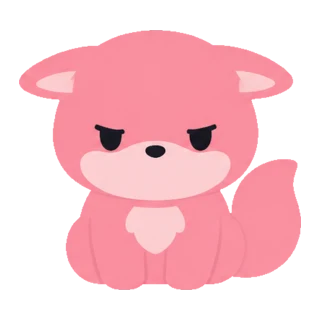
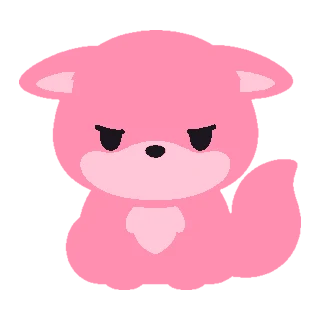
fix(brand): one pink everywhere, and Kanna on the tab
Three things the art was getting wrong, all found by looking at the exports
rather than the code.

**The pets were not the same colour.** The masters drifted off-brand and off
each other — fur measures `#f990a0` on `wait`, `#f695a1` on `go`, `#fa94a2` on
`watch`, against a brand accent of `#ff8fb0`. Next to `idle`, which now renders
from the vector and is exactly on-brand, that reads as two foxes in two
different pinks. Every still is snapped to the brand palette on the way out.

Alpha has to be carried around that remap by hand, and this took three attempts
to get right. A two-colour palette ate her eyes — they are the plate colour, so
the same trap `-transparent` sets on the masters, one step later. Then every
single-invocation form (`-alpha off … -alpha on`, `-channel RGB`, an `mpr:`
round trip) turned each pet into a black silhouette, because transparent pixels
still hold plate-coloured RGB and the colour reduction counts them. Extracting
the mask, remapping opaque, and copying the mask back is the form that survives;
the failures are written down at the function so the next person skips them.

The silhouettes come out byte-identical and eye pixels move by under half a
percent, so this is a hue change and nothing else. Fur-to-cream separation drops
from ΔE 29.7 to 26.5 — flatter edges where the masters had shading the brief
forbade, still an order of magnitude above the visible threshold, and the cream
[…]

diff --git a/.reference/design/brand/export-fox-assets.ts b/.reference/design/brand/export-fox-assets.ts
@@ -67,6 +67,20 @@ const CLI_PETS = path.join(ROOT, "apps/cli/src/app-shell/brand/pets");
 
 /** The plate colour the masters were drawn on, and the colour of the eyes. */
 const PLATE = "#1c1620";
+/**
+ * The brand palette every still is snapped to.
+ *
+ * The masters drifted. Their fur measures around `#f990a0`, a salmon, and it is
+ * not even consistent between them — `go` is `#f695a1`, `watch` is `#fa94a2`.
+ * Beside a still exported from the vector, which is exactly `#ff8fb0`, the
+ * difference is visible as two foxes in slightly different pinks.
+ *
+ * `PLATE` has to be in this list even though the plate itself is transparent by
+ * the time the remap runs: it is also the colour of her eyes and nose, and a
+ * palette without it snaps them to the nearest pink and she comes out blind.
+ * That is the same trap as `-transparent` on the masters, one step later.
+ */
+const BRAND_PALETTE = ["#ff8fb0", "#ffc6d8", PLATE] as const;
 /** Corner-to-corner spread across the six masters is ~10 levels; 22% clears it. */
 const PLATE_FUZZ = "22%";
 /** Lossy WebP quality. Flat art holds up well below this; edges do not. */
@@ -294,7 +308,56 @@ async function exportStill(
     ...encode,
   ]);
 
+  await snapToBrandPalette(dest);
   return Bun.file(dest).size;
+}
+
+// One 3px swatch the remap reads. Written once rather than per still.
+const palettePath = path.join(tmpdir(), "kanna-brand-palette.png");
+await magick(["-size", "1x1", ...BRAND_PALETTE.map((hex) => `xc:${hex}`), "+append", palettePath]);
+
+/**
+ * Snap a finished still to the brand palette, in place.
+ *
+ * The masters drifted off-brand and off each other — fur measures `#f990a0` on
+ * `wait`, `#f695a1` on `go`, `#fa94a2` on `watch` — while a still exported from
+ * the vector is exactly `#ff8fb0`. Side by side in one shell that reads as two
+ * foxes in two different pinks.
+ *
+ * Alpha has to be carried around the remap by hand. `-remap` reduces colour,
+ * and every single-invocation form of this — `-alpha off … -alpha on`,
+ * `-channel RGB`, an `mpr:` round trip — either dropped the cut or snapped the
+ * whole image to the darkest palette entry, because transparent pixels still
+ * hold plate-coloured RGB and the reduction counts them. Extracting the mask,
+ * remapping opaque, and copying the mask back is the form that survives.
+ *
+ * `PLATE` must be in the palette even though the plate is long gone by now: it
+ * is also the colour of her eyes and nose, and a palette without it snaps them
+ * to the nearest pink and she comes out blind. Same trap as `-transparent` on
+ * the masters, two steps later.
+ */
+async function snapToBrandPalette(file: string): Promise<void> {
+  const mask = path.join(tmpdir(), `kanna-mask-${path.basename(file)}.png`);
+  const rgb = path.join(tmpdir(), `kanna-rgb-${path.basename(file)}.png`);
+  const isWebp = file.endsWith(".webp");
+
+  await magick([file, "-alpha", "extract", mask]);
+  await magick([file, "-alpha", "off", "+dither", "-remap", palettePath, rgb]);
+  await magick([
+    rgb,
+    mask,
+    "-alpha",
+    "off",
+    "-compose",
+    "CopyOpacity",
+    "-composite",
+    ...(isWebp
+      ? ["-quality", WEBP_QUALITY, "-define", "webp:alpha-quality=100", "-strip", file]
+      : ["-strip", `PNG32:${file}`]),
+  ]);
+
+  rmSync(mask, { force: true });
+  rmSync(rgb, { force: true });
 }
 
 mkdirSync(DOCS_STILLS, { recursive: true });

diff --git a/apps/docs/app/icon.tsx b/apps/docs/app/icon.tsx
@@ -1,11 +1,34 @@
 import { KunaiMark } from "@/lib/brand/kunai-mark";
-import { kunaiBrand } from "@/lib/brand/tokens";
+import generatedMascot from "@/lib/generated-mascot.json";
 import { ImageResponse } from "next/og";
 
 export const size = { width: 32, height: 32 };
 export const contentType = "image/png";
 
+/**
+ * The tab icon is Kanna, not the blade.
+ *
+ * A favicon is the most-repeated brand impression there is — every tab, every
+ * bookmark, every history row — and the blade mark is a geometric fox that any
+ * project could own. She is the part nobody else has. Rendered from the same
+ * bake the OG cards use, so there is one asset behind every small surface
+ * rather than a fourth source to keep in step.
+ *
+ * She survives the size: at 32 the ears, the muzzle and the squint all still
+ * read. Below that a browser downscales this, which beats a 16px render of art
+ * drawn at 928.
+ *
+ * Full-bleed and transparent, unlike the OG cards and the home-screen tile. At
+ * 32px a plate and a border are the difference between an ear reaching the edge
+ * and an ear touching a frame, and transparency is what lets her sit correctly
+ * on a light tab strip and a dark one without picking a side.
+ *
+ * The mark stays as the fallback for the same reason it stays on the cards —
+ * it is the insignia, and a missing bake must not produce an empty tab.
+ */
 export default function Icon() {
+  const mascot = generatedMascot.mascotDataUrl;
+
   return new ImageResponse(
     <div
       style={{
@@ -14,12 +37,15 @@ export default function Icon() {
         display: "flex",
         alignItems: "center",
         justifyContent: "center",
-        background: kunaiBrand.surface,
-        borderRadius: 8,
-        border: `1px solid ${kunaiBrand.line}`,
+        background: "transparent",
       }}
     >
-      <KunaiMark size={24} />
+      {mascot.length > 0 ? (
+        // eslint-disable-next-line @next/next/no-img-element
+        <img src={mascot} alt="" width={32} height={32} style={{ objectFit: "contain" }} />
+      ) : (
+        <KunaiMark size={24} />
+      )}
     </div>,
     { ...size },
   );

diff --git a/apps/docs/app/apple-icon.tsx b/apps/docs/app/apple-icon.tsx
@@ -1,11 +1,21 @@
 import { KunaiMark } from "@/lib/brand/kunai-mark";
 import { kunaiBrand } from "@/lib/brand/tokens";
+import generatedMascot from "@/lib/generated-mascot.json";
 import { ImageResponse } from "next/og";
 
 export const size = { width: 180, height: 180 };
 export const contentType = "image/png";
 
+/**
+ * The home-screen icon, matching the tab icon.
+ *
+ * Same reasoning as `icon.tsx`: she is the identity and the blade is the
+ * insignia. At 180 there is room for her to be drawn properly rather than
+ * squeezed, so she gets the full tile with the gradient behind her.
+ */
 export default function AppleIcon() {
+  const mascot = generatedMascot.mascotDataUrl;
+
   return new ImageResponse(
     <div
       style={{
@@ -19,7 +29,12 @@ export default function AppleIcon() {
         border: `1px solid ${kunaiBrand.line}`,
       }}
     >
-      <KunaiMark size={118} />
+      {mascot.length > 0 ? (
+        // eslint-disable-next-line @next/next/no-img-element
+        <img src={mascot} alt="" width={150} height={150} style={{ objectFit: "contain" }} />
+      ) : (
+        <KunaiMark size={118} />
+      )}
     </div>,
     { ...size },
   );
